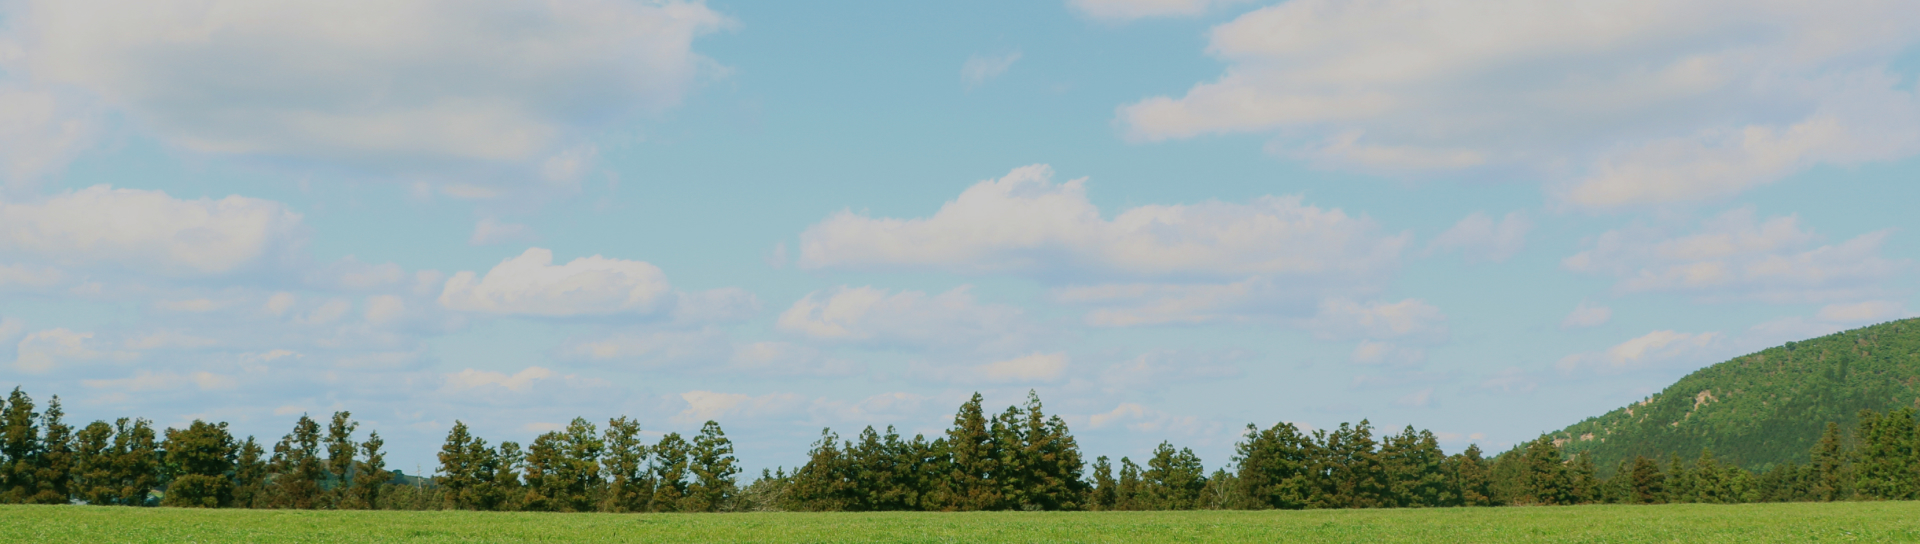
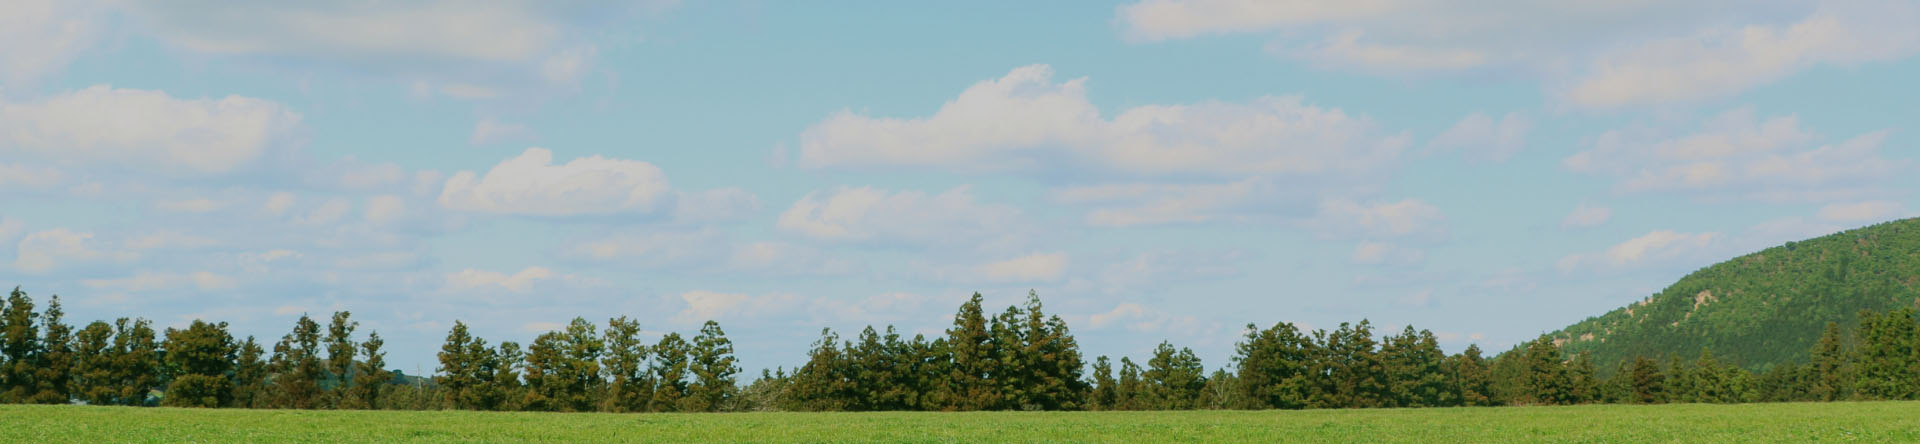
x

diff --git a/assets/css/sub.css b/assets/css/sub.css
@@ -229,7 +229,7 @@
     #subVisual .visualbg.bg01:before{background-image: url(../images/sub/bg_subVisual01_m.jpg);}
     #subVisual .visualbg.bg02:before{background-image: url(../images/sub/bg_subVisual02_m.jpg);}
     #subVisual .visualbg.bg03:before{background-image: url(../images/sub/bg_subVisual03_m.jpg);}
-    #subVisual .visualbg.bg04:before{background-image: url(../images/sub/bg_subVisual01_m.jpg);}
+    #subVisual .visualbg.bg04:before{background-image: url(../images/sub/bg_subVisual04_m.jpg);}
     #subVisual .visualbg.bg05:before{background-image: url(../images/sub/bg_subVisual05_m.jpg);}
     #subVisual .visualbg.bg06:before{background-image: url(../images/sub/bg_subVisual06_m.jpg);}
     #subVisual .visualtext h2{font-size: min(8.5vw, 32px);}
